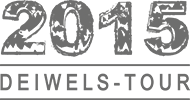
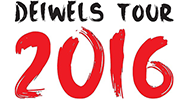
Deiwelstour 2016

diff --git a/deiwelstour.html b/deiwelstour.html
@@ -5,23 +5,22 @@ title: 1.FC Kaiserslautern Triathlon Team
 
 <div class="container">
 
-	<h2 class="featurette-heading">DEIWELS-TOUR 2015
+	<h2 class="featurette-heading">DEIWELS-TOUR 2016
 	<br>
 	<span class="text-muted">powered by Pizza Hut Saarbrücken - Neunkirchen und Rhön Park Hotel Aktiv Resort</span>
 	<br>
 	</h2>
 	<p class="lead">
-		Wir gehen auf Tour... auf Deiwels-Tour. Für alle, die es lieber hochdeutsch mögen: Teufels-Tour! Aber als echtes Pfälzer Team schicken wir natürlich lieber "die Deiwel uff Tour". Lasset die Spiele beginnen!
+		Wir gehen auch 2016 wieder auf Tour... auf Deiwels-Tour. Für alle, die es lieber hochdeutsch mögen: Teufels-Tour! Aber als echtes Pfälzer Team schicken wir natürlich lieber "die Deiwel uff Tour". Lasset die Spiele beginnen!
 		<br>
 		<br>
 		<b>Termine:</b><br><br>
-		 	02. – 03.05.: Trainingslager Wolfstein<br><br>
-	14.06.: Maxdorfer Triathlon (MD; Rheinland-Pfalz Meisterschaft)<br><br>
-	28.06.: Nibelungen Triathlon Worms (SD; Rheinland-Pfalz Meisterschaft)<br><br>
-	06.09.: Top Race Germany Bostalsee (Jedermann; Vereinsmeisterschaft)<br><br>
-	13.09.: Rhein-Ahr Triathlon Remagen (OD; Rheinland-Pfalz Meisterschaft)<br><br>
-	06. – 08.11.: Abschluss-Wochenende Rhön Park Hotel<br>
-	<br>
+		 	06.03.: Wonnegauer Cross-Duathlon Monsheim<br><br>
+	22.05.: Triathlon Goldener Hut Schifferstadt<br><br>
+	10.07.: Triathlon St. Ingbert <br><br>
+	21.08.: Pirmasenser Triathlon<br><br>
+	04.09.: Bostalsee Triathlon (Vereinsmeisterschaft)<br><br>
+	
   
   Wie unsere Starter im Einzelnen abgeschnitten haben, wird unter <a href="ergebnisse.html">News > Ergebnisse</a> nach dem Wettkampf veröffentlicht. Wir wünschen allen Startern des 1. FC Kaiserslautern Triathlon Teams eine erfolgreiche Tour!
 	</p>

diff --git a/index.html b/index.html
@@ -52,7 +52,7 @@ title: 1.FC Kaiserslautern Triathlon Team
 		<div class="col-lg-4">
 			
                                 <img src="images/Deiwelstour.png"><br><br>
-				Danke an alle für die erfolgreiche Deiwels-Tour 2015.<br> <a href="http://fck-triathlon-team.github.io/deiwelstour.html">Hier</a> geht's zur Übersicht.
+				Danke an alle für die erfolgreiche Deiwels-Tour 2015.<br> <a href="http://fck-triathlon-team.github.io/deiwelstour.html">Hier</a> geht's zur Übersicht mit den Terminen für 2016.
 			
 
 		</div><!-- /.col-lg-4 -->
